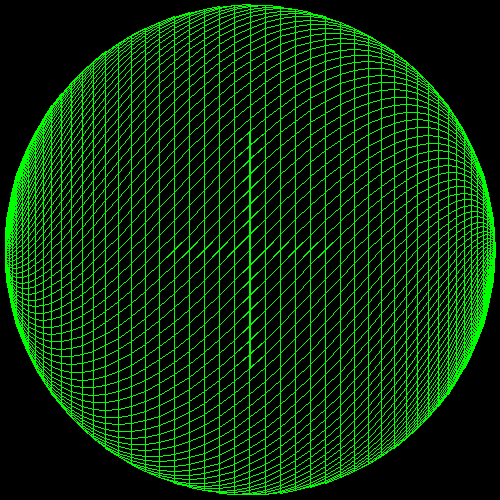
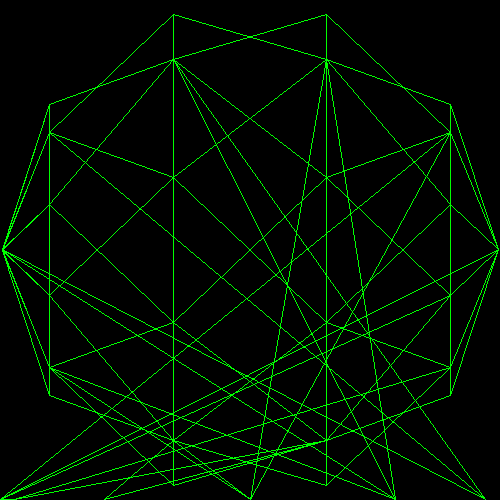
work

diff --git a/draw.c b/draw.c
@@ -88,7 +88,8 @@ void add_sphere( struct matrix * points,
   int index;
   double x, y, z;
   int num_steps;
-  
+
+  step = 10;
   num_steps = MAX_STEPS / step;
 
   temp = new_matrix( 4, num_steps * num_steps );
@@ -102,7 +103,7 @@ void add_sphere( struct matrix * points,
   longStop = num_steps;
   index = 0;
 
-  latStop = num_steps/3;  
+  //latStop = num_steps/3;  
   for ( lat = latStart; lat < latStop; lat++ ) {
     for ( longt = longStart; longt < longStop; longt++ ) {
 
